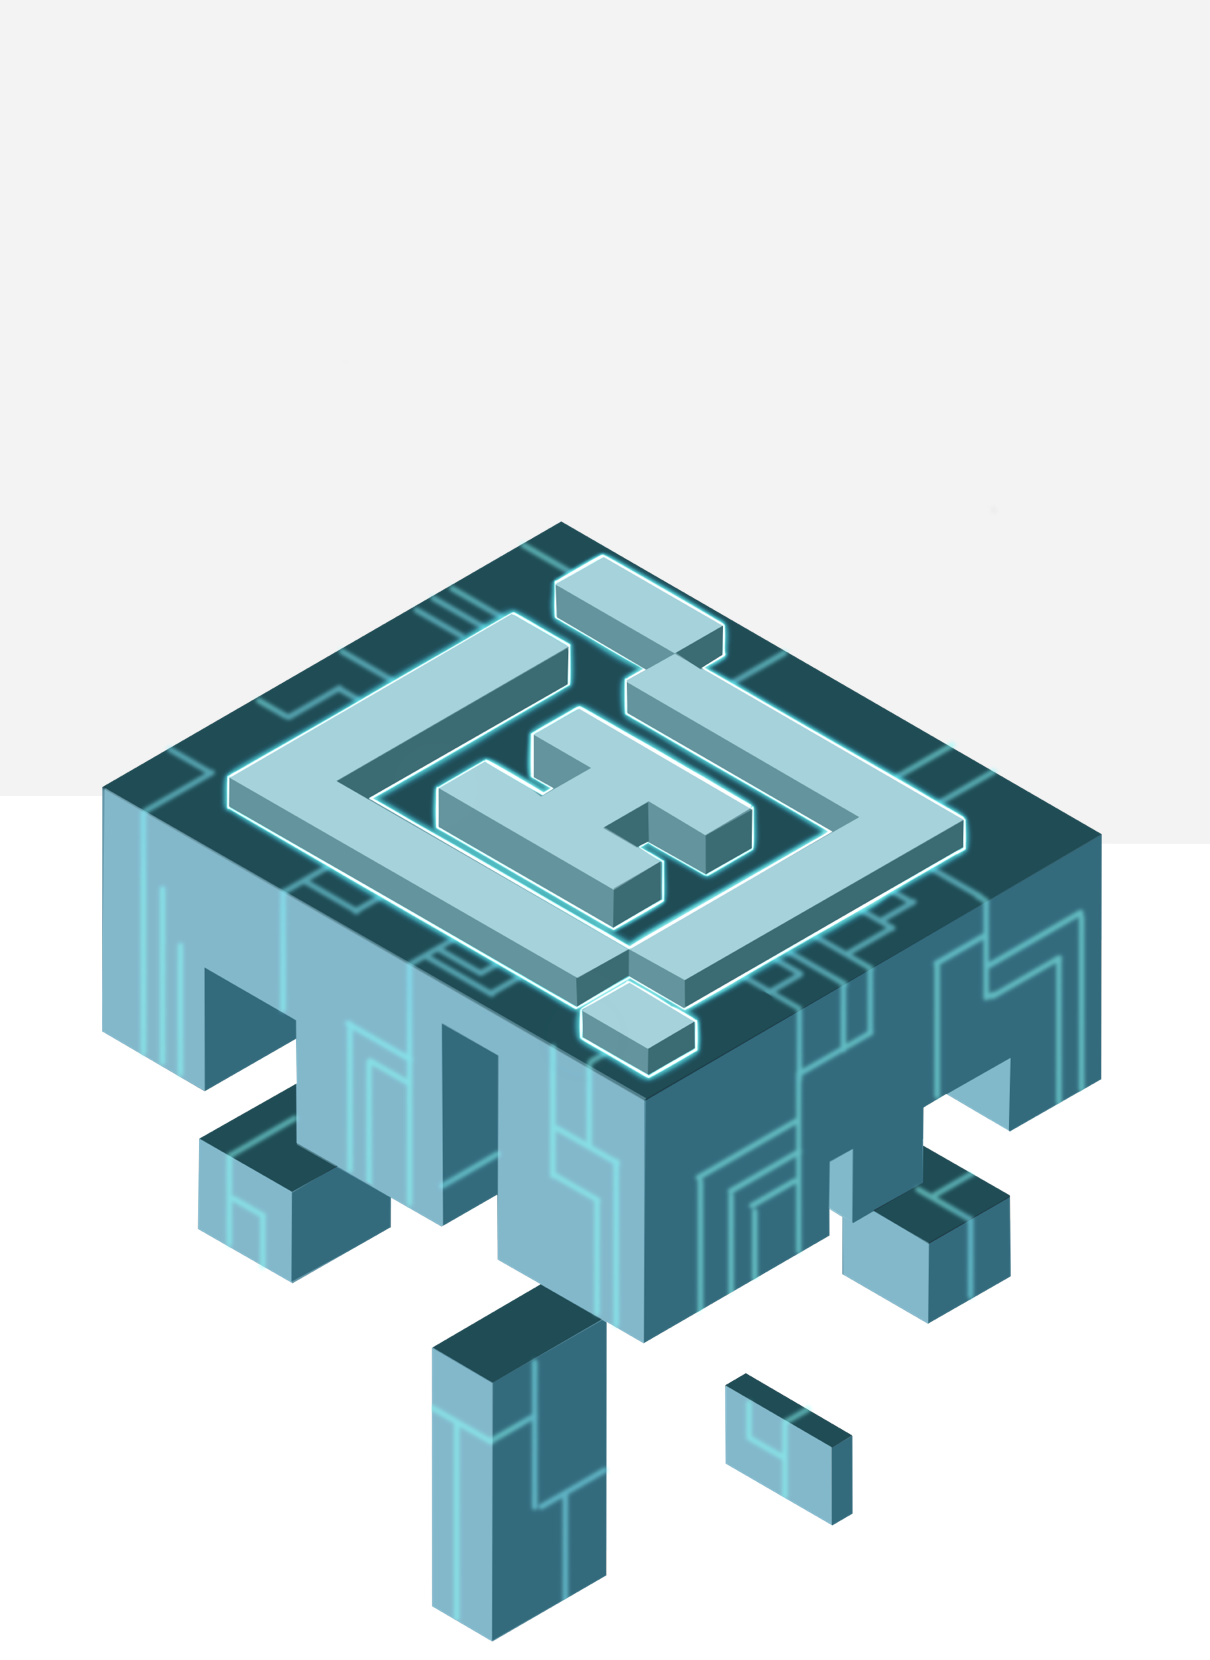
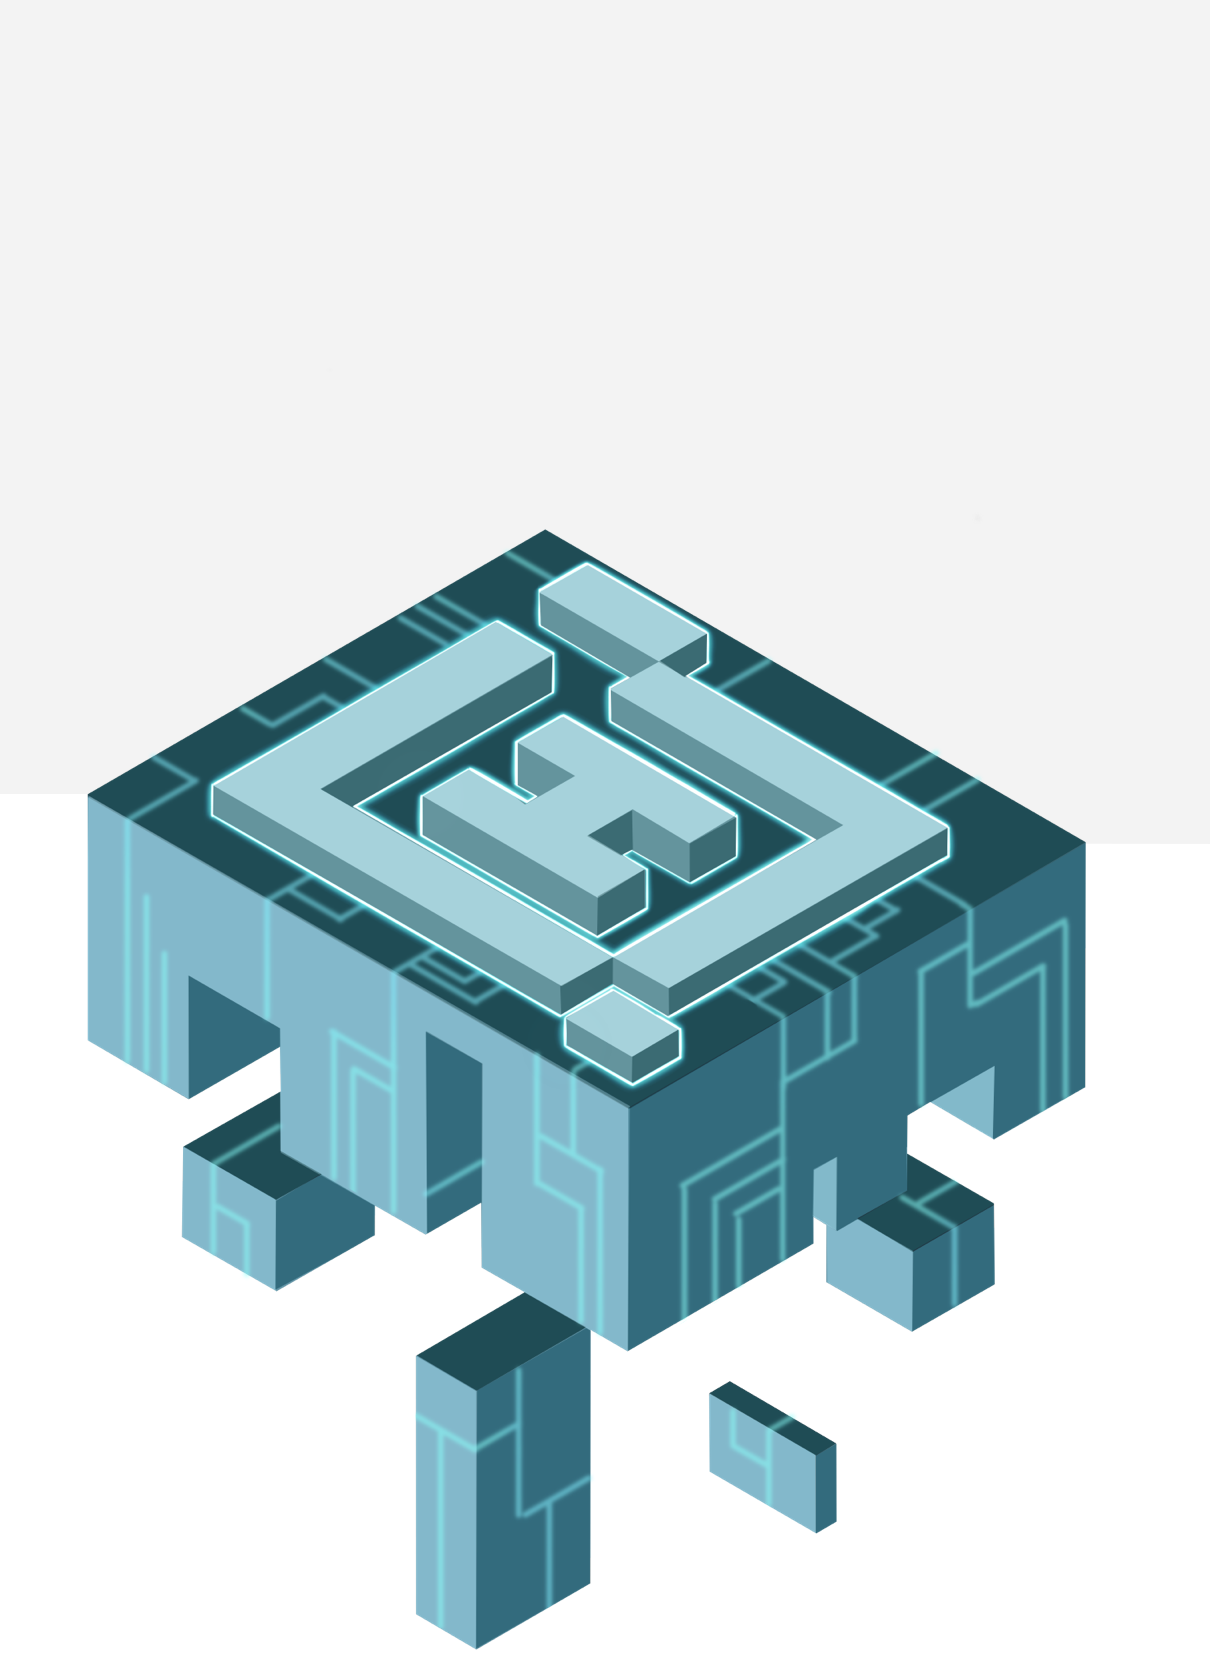
Add files via upload

Changed region(s): [[0.0612, 0.3072, 0.9174, 1.0], [0.581, 0.8295, 0.7033, 0.9217], [0.2752, 0.3687, 0.3364, 0.4301]]

diff --git a/hash-landing-preview/index.html b/hash-landing-preview/index.html
@@ -58,7 +58,7 @@
       <span class="span-header bg1-2">
         Permitimos que qualquer empresa opere como subadquirente para suas redes, gerando <b>experiências financeiras customizadas</b> em toda sua cadeia.
       </span>
-			<div style="margin-top: 60px;display: flex;" class="bg1-3">
+			<div style="margin-top: 30px;display: flex;" class="bg1-3">
 				<a class="button" href="#" onclick="window.scroll({ top: 850, behavior: 'smooth'})">
 					saiba mais <img src="SMALL/down.png" width="16px" height="16px" style="margin-left: 8px;"/>
 				</a>
@@ -71,12 +71,12 @@
     <div class="right-box">
       <img class="ilustra animation-4" src="./ILUSTRA/ILU_4.png" width="605px" height="830px" style="transform:translate(0, 20px)"/>
       <img class="ilustra animation-3" src="./ILUSTRA/ILU_3.png" width="605px" height="830px" style="transform:translate(0, 20px)"/>
-      <img class="tower t1" src="./ILUSTRA/CAPTURA.png" width="79px" height="108px" style="transform: translate(-189px, -68px);">
-      <img class="tower t2" src="./ILUSTRA/WALLET.png" width="79px" height="108px" style="transform: translate(-109px, -111px);">
-      <img class="tower t3" src="./ILUSTRA/CARDS.png" width="79px" height="108px" style="transform: translate(-24px, -146px);">
-      <img class="tower t4" src="./ILUSTRA/CONCILIAÇÃO.png" width="79px" height="108px" style="transform: translate(12px, 50px);">
-      <img class="tower t5" src="./ILUSTRA/BANKING.png" width="79px" height="108px" style="transform: translate(98px, 2px);">
-      <img class="tower t6" src="./ILUSTRA/FORNECEDORES.png" width="79px" height="108px" style="transform: translate(180px, -45px);">
+      <img class="tower t1" src="./ILUSTRA/CAPTURA.png" width="79px" height="108px"           style="transform: translate(-197px, -74px);">
+      <img class="tower t2" src="./ILUSTRA/WALLET.png" width="79px" height="108px"            style="transform: translate(-115px, -115px);">
+      <img class="tower t3" src="./ILUSTRA/CARDS.png" width="79px" height="108px"             style="transform: translate(-31px, -158px);">
+      <img class="tower t4" src="./ILUSTRA/CONCILIAÇÃO.png" width="79px" height="108px"       style="transform: translate(4px, 55px);">
+      <img class="tower t5" src="./ILUSTRA/BANKING.png" width="79px" height="108px"           style="transform: translate(90px, 2px);">
+      <img class="tower t6" src="./ILUSTRA/FORNECEDORES.png" width="79px" height="108px"      style="transform: translate(171px, -46px);">
       <img class="ilustra animation-2" src="./ILUSTRA/ILU_2.png" width="605px" height="830px" style="transform:translate(0, 20px)"/>
       <img class="ilustra animation-1" src="./ILUSTRA/ILU_1.png" width="605px" height="830px" style="transform:translate(0, 20px)"/>
     </div>
@@ -165,8 +165,8 @@
             <h3>
               FORNECEDORES
             </h3>
-            <span class="dashes">
-              -------------------------------------------------------------
+            <span class="dashes fornecedores">
+              -----------------------------------------
             <span>
           </div>
         </div>
@@ -186,7 +186,7 @@
               CONCILIAÇÃO
             </h3>
             <span class="dashes">
-              -------------------------------------------------------------
+              -------------------------------------------
             <span>
           </div>
           <div class="box6-6">

diff --git a/hash-landing-preview/style.css b/hash-landing-preview/style.css
@@ -221,6 +221,7 @@ header div img {
 .bg-squares-2 {
   background-image: url("./L2_BLUE.png");
   padding-left: 50px;
+  padding-top: 160px;
 }
 .bg-squares-2 > * {
   opacity: 0;
@@ -286,7 +287,7 @@ header div img {
   transition: all 0.2s ease-out;
 }
 .bg-squares-3 h2{
-  margin-top: 277px;
+  margin-top: 200px;
   margin-bottom: 30px;
 }
 
@@ -313,8 +314,8 @@ header div img {
 }
 .six-texts > div > div > div {
   margin: 0 60px;
-  min-width: 130px;
-  max-width: 130px;
+  min-width: 100px;
+  max-width: 100px;
   font-size: 14px;
   line-height: 1.21;
   color: #6f97aa;
@@ -325,7 +326,8 @@ header div img {
   font-family: MilliardBold;
   font-weight: bold;
   line-height: 1.08;
-  margin: 7px 0;
+  margin-top: 7px;
+  margin-bottom: 0px;
 }
 .six-texts > div > div > div > span {
   font-style: italic;
@@ -338,6 +340,10 @@ header div img {
   background-color: #8dabba40;
   font-size: 5px;
   color: transparent;
+  margin-left: 15px;
+}
+.dashes.fornecedores {
+  margin-left: 30px;
 }
 
 

diff --git a/hash-landing-preview/main.js b/hash-landing-preview/main.js
@@ -54,20 +54,20 @@ const towers = [
 // })
 
 const towersInitialXY = [
-  { x: -189, y: -68, },
-  { x: -109, y: -111, },
-  { x: -24, y: -146, },
-  { x: 12, y: 50, },
-  { x: 98, y: 2, },
-  { x: 180, y: -45, },
+  { x: -197, y: -74, },
+  { x: -115, y: -115, },
+  { x: -31, y: -158, },
+  { x: 4, y: 55, },
+  { x: 90, y: 2, },
+  { x: 171, y: -46, },
 ]
 const towerMiddleXY = [
-  { x: -247, y: -137, },
-  { x: -252, y: -324, },
+  { x: -220, y: -149, },
+  { x: -222, y: -324, },
   { x: -5, y: -318, },
   { x: -5, y: -137, },
-  { x: 250, y: -137, },
-  { x: 250, y: -324, },
+  { x: 220, y: -137, },
+  { x: 220, y: -324, },
 ]
 
 const startY = 55
@@ -292,7 +292,7 @@ function animateTowers (t1, t2, t3, t4) {
     }
     if (t2 <= 1) {
       tower.style.transform = `translate(${
-        lerp(x, x2, t2 - ((1-t2) * 0.3))
+        lerp(x, x2, t2 - ((1-t2) * 0.5))
       }px, ${
         lerp(250 + y, y2, t2 - ((1-t2) * 0.13))
       }px)`
